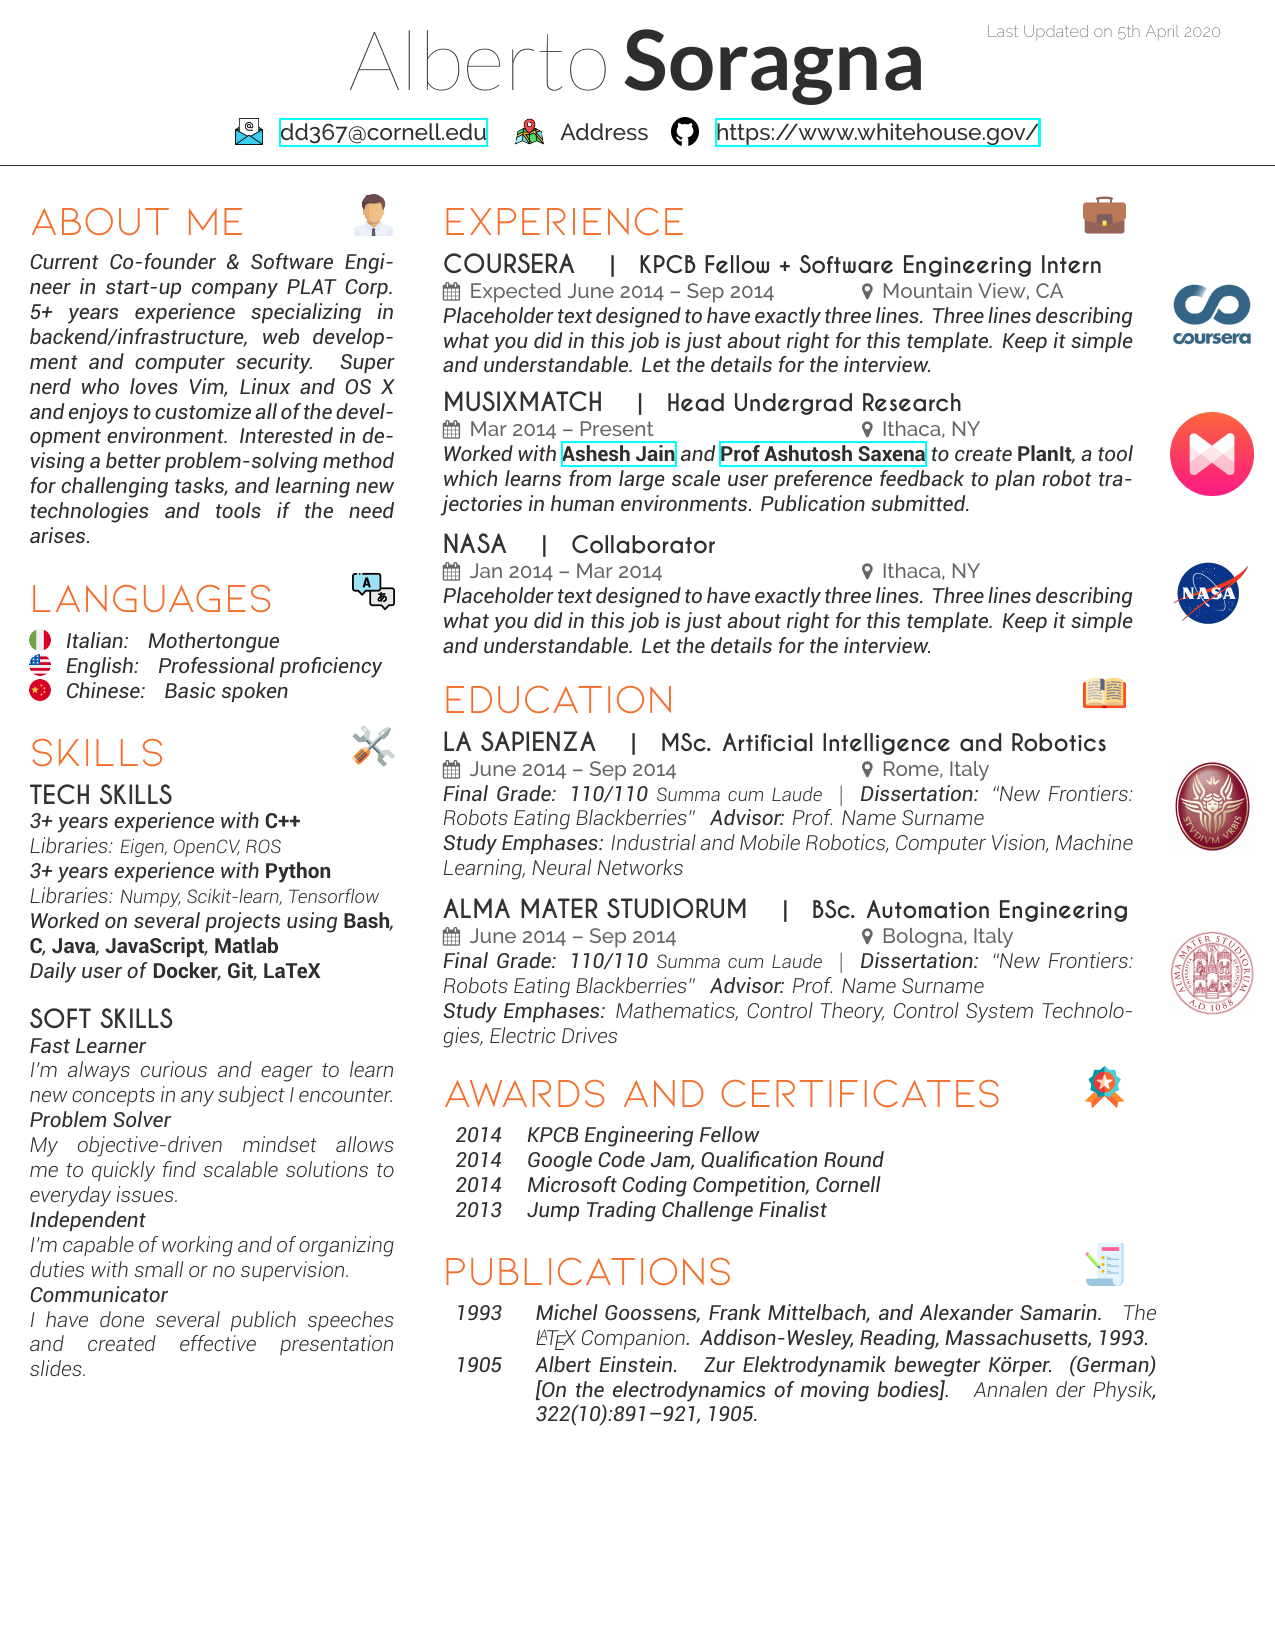
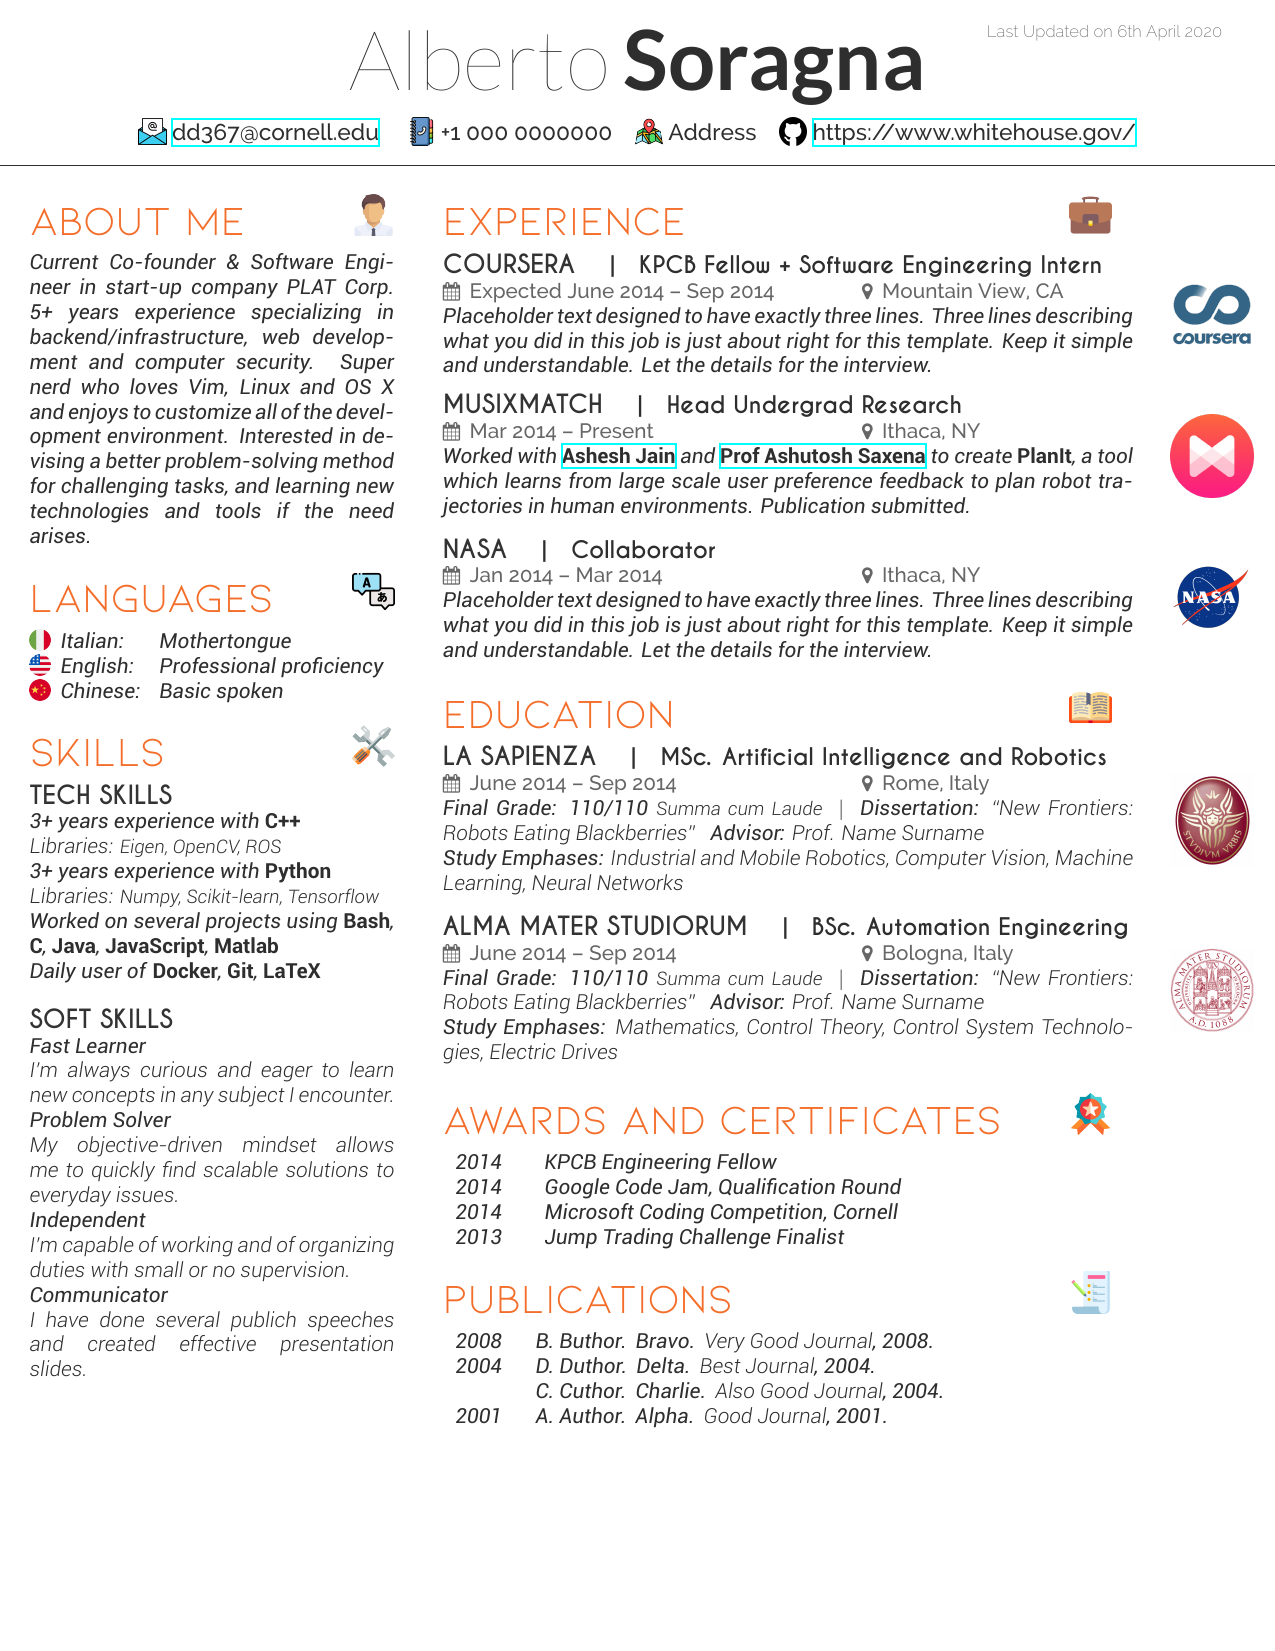
small update and new png

diff --git a/cv_sample.tex b/cv_sample.tex
@@ -80,7 +80,7 @@ Interested in devising a better problem-solving method for challenging tasks, an
 \languageskill{English}{Professional proficiency}{images/flag/united-states.png}
 \languageskill{Chinese}{Basic spoken}{images/flag/china.png}
 
-\vspace{-5mm} % For some reason there is a big space between this section and the following, so reduce it
+\vspace{-12pt} % For some reason there is a big space between this section and the following, so reduce it
 \sectionspace % Some whitespace after the section
 
 %------------------------------------------------
@@ -214,6 +214,7 @@ Placeholder text designed to have exactly three lines. Three lines describing wh
 \dateitem{2014}{Microsoft Coding Competition, Cornell}
 \dateitem{2013}{Jump Trading Challenge Finalist}
 
+\vspace{-12pt} % For some reason there is a big space between this section and the following, so reduce it
 \sectionspace % Some whitespace after the section
 
 %------------------------------------------------
